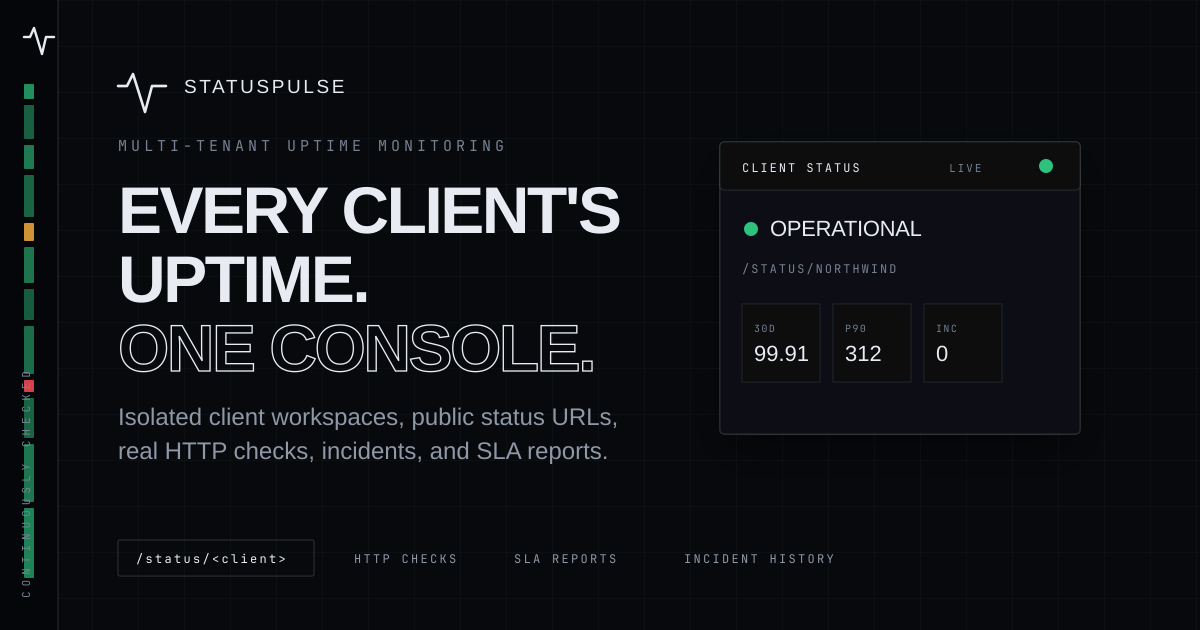
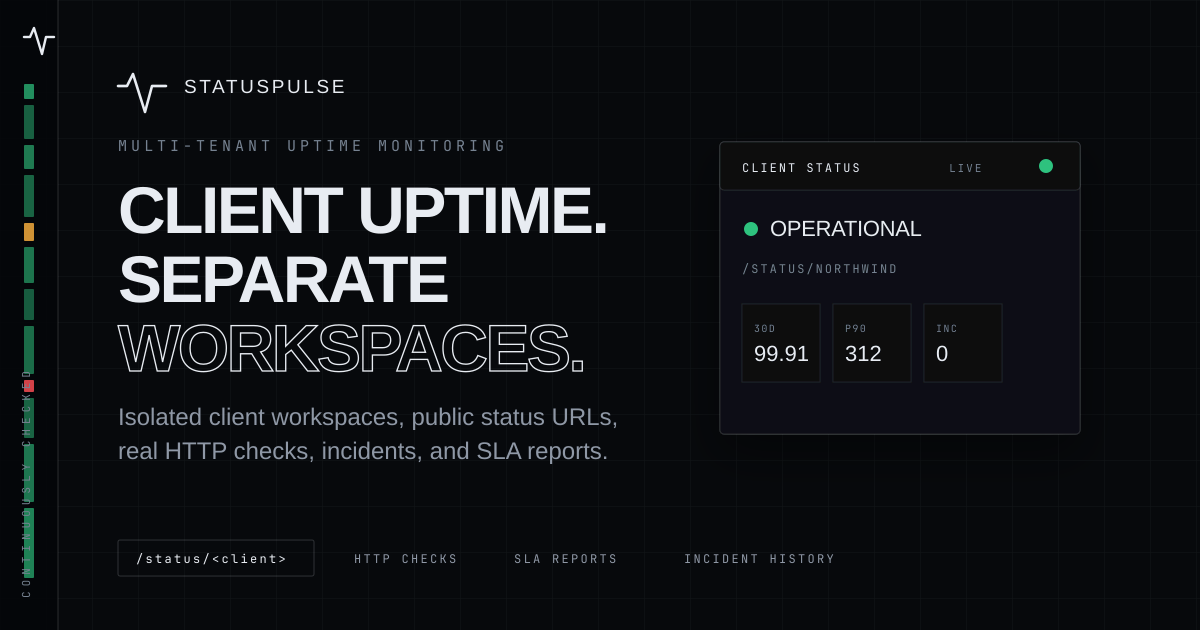
fix: align marketing claims with tenant model

Changed region(s): [[0.0925, 0.2714, 0.5242, 0.4825], [0.0925, 0.5127, 0.4933, 0.6032]]

diff --git a/test/controllers/marketing_controller_test.rb b/test/controllers/marketing_controller_test.rb
@@ -10,7 +10,7 @@ class MarketingControllerTest < ActionDispatch::IntegrationTest
   test "the landing page states the multi-tenant position" do
     get root_url
 
-    assert_select "h1", /one console/i
+    assert_select "h1", /workspace by workspace/i
     assert_select ".mk-lede", /isolated workspace/i
   end
 
@@ -18,7 +18,7 @@ class MarketingControllerTest < ActionDispatch::IntegrationTest
     get root_url
 
     assert_select "a[href=?]", signup_path
-    assert_select "a[href=?]", org_public_status_path(org_slug: "statuspulse")
+    assert_select "a[href=?]", public_status_path
   end
 
   test "the hero wall is labelled as illustrative rather than passed off as customers" do
@@ -33,8 +33,10 @@ class MarketingControllerTest < ActionDispatch::IntegrationTest
     assert_select "link[rel=canonical]"
     assert_select "meta[property='og:title']"
     assert_select "meta[property='og:image'][content='http://www.example.com/og/statuspulse-card.png']"
+    assert_select "meta[property='og:image:alt']"
     assert_select "meta[name='twitter:card'][content='summary_large_image']"
     assert_select "meta[name='twitter:image'][content='http://www.example.com/og/statuspulse-card.png']"
+    assert_select "meta[name='twitter:image:alt']"
     assert_select "meta[name=description]"
   end
 
@@ -47,7 +49,7 @@ class MarketingControllerTest < ActionDispatch::IntegrationTest
     assert_select "link[rel=canonical][href=?]", "http://example.com/uptime-monitoring-for-agencies"
     assert_select "h1", text: /Uptime monitoring for agencies/i, count: 1
     assert_select "a[href=?]", signup_path
-    assert_select "a[href=?]", org_public_status_path(org_slug: "statuspulse")
+    assert_select "a[href=?]", public_status_path
     assert_no_match(/white-?label/i, response.body)
     assert_no_match(/custom domain/i, response.body)
     assert_no_match(/subscriber notification/i, response.body)
@@ -64,6 +66,17 @@ class MarketingControllerTest < ActionDispatch::IntegrationTest
     assert_select ".mk-card", text: /Reports/i
     assert_no_match(/white-?label/i, response.body)
     assert_no_match(/custom domain/i, response.body)
+    assert_no_match(/one console|single dashboard/i, response.body)
+  end
+
+  test "marketing pages do not promise a cross-workspace operator console" do
+    [ root_url, uptime_monitoring_for_agencies_url, multi_tenant_uptime_monitoring_url ].each do |url|
+      get url
+
+      assert_response :success
+      assert_no_match(/one console|single dashboard|watch many client workspaces/i, response.body)
+      assert_select "a[href=?]", public_status_path
+    end
   end
 
   test "client uptime reports page explains SLA windows and P90 latency" do

diff --git a/test/controllers/seo_test.rb b/test/controllers/seo_test.rb
@@ -31,8 +31,10 @@ class SeoTest < ActionDispatch::IntegrationTest
 
     assert_response :success
     assert_select "meta[property='og:image'][content='http://www.example.com/og/statuspulse-card.png']"
+    assert_select "meta[property='og:image:alt']"
     assert_select "meta[name='twitter:card'][content='summary_large_image']"
     assert_select "meta[name='twitter:image'][content='http://www.example.com/og/statuspulse-card.png']"
+    assert_select "meta[name='twitter:image:alt']"
   end
 
   test "the sitemap lists public landing, SEO pages, and opted-in status pages only" do
